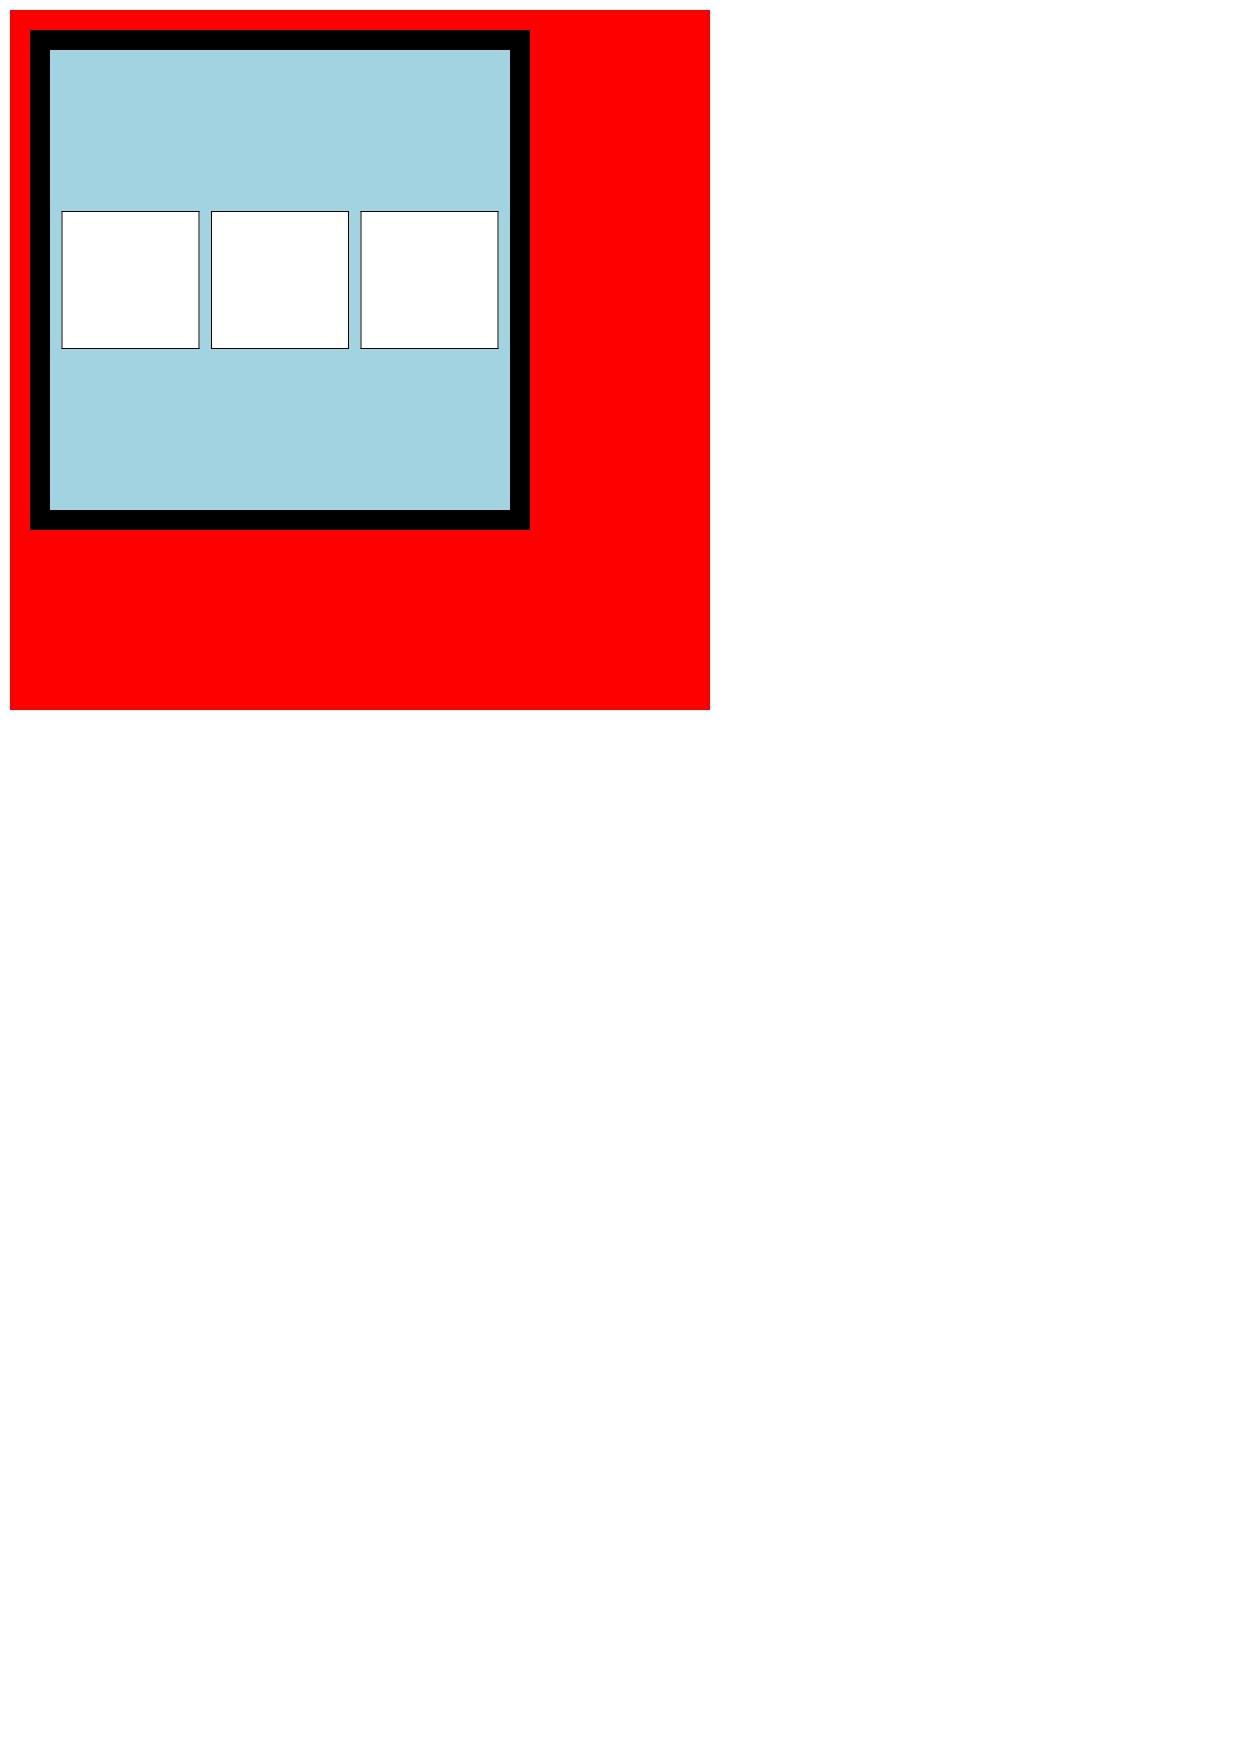
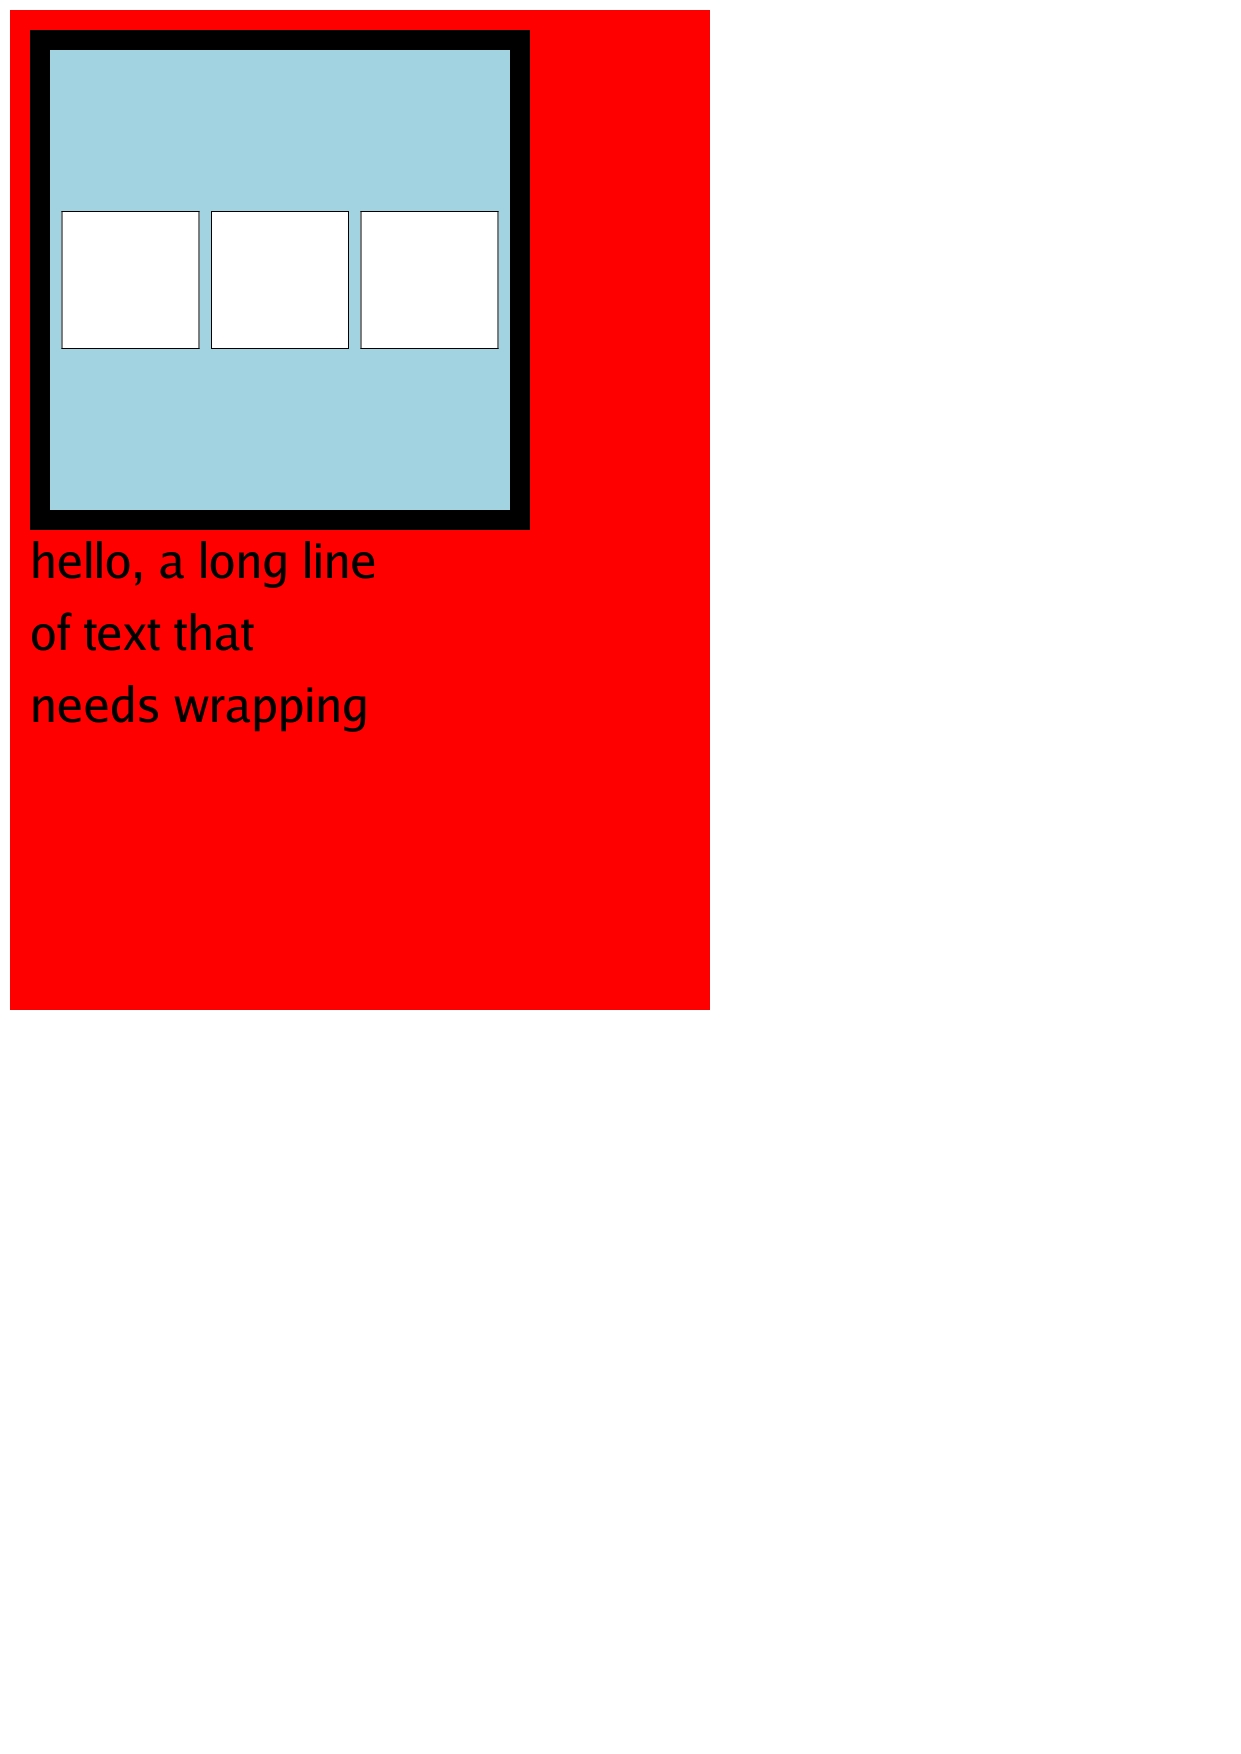
text elements

Changed region(s): [[0.0, 0.3079, 0.5818, 0.5849]]

diff --git a/pkg/drawing/container.go b/pkg/drawing/container.go
@@ -7,24 +7,24 @@ import (
 type Layout int
 
 const (
-	ROW Layout = iota
-	COLUMN
+	Row Layout = iota
+	Column
 )
 
 type Justification int
 
 const (
-	START Justification = iota
-	END
-	SPACED
+	Start Justification = iota
+	End
+	Spaced
 )
 
 type Alignment int
 
 const (
-	ALIGN_START Alignment = iota
-	ALIGN_END
-	ALIGN_CENTER
+	AlignStart Alignment = iota
+	AlignEnd
+	AlignCenter
 )
 
 type Container struct {
@@ -37,7 +37,7 @@ type Container struct {
 }
 
 func newContainer(width, height float64) *Container {
-	return &Container{Div: newDiv(width, height), layout: ROW, justifyContent: START, padding: 0.0}
+	return &Container{Div: newDiv(width, height), layout: Row, justifyContent: Start, padding: 0.0}
 }
 
 func (container *Container) GetWidth() float64 {
@@ -63,20 +63,20 @@ func (container *Container) renderChildren(location Rectangle, context *gg.Conte
 	wGap := 0.0
 	hGap := 0.0
 
-	if container.justifyContent == END {
-		if container.layout == ROW {
+	if container.justifyContent == End {
+		if container.layout == Row {
 			totalWidth := container.getTotalChildWidth(location)
 			w = location.width - totalWidth
-		} else if container.layout == COLUMN {
+		} else if container.layout == Column {
 			totalHeight := container.getTotalChildHeight(location)
 			h = location.height - totalHeight
 		}
-	} else if container.justifyContent == SPACED {
-		if container.layout == ROW {
+	} else if container.justifyContent == Spaced {
+		if container.layout == Row {
 			totalWidth := container.getTotalChildWidth(location)
 			wGap = (location.width - totalWidth) / float64(len(container.children)+1)
 			w = wGap
-		} else if container.layout == COLUMN {
+		} else if container.layout == Column {
 			totalHeight := container.getTotalChildHeight(location)
 			hGap = (location.height - totalHeight) / float64(len(container.children)+1)
 			h = hGap
@@ -87,25 +87,25 @@ func (container *Container) renderChildren(location Rectangle, context *gg.Conte
 		width := getChildWidth(location, child)
 		height := getChildHeight(location, child)
 
-		if container.alignItems == ALIGN_END {
-			if container.layout == ROW {
+		if container.alignItems == AlignEnd {
+			if container.layout == Row {
 				h = location.height - height
-			} else if container.layout == COLUMN {
+			} else if container.layout == Column {
 				w = location.width - width
 			}
-		} else if container.alignItems == ALIGN_CENTER {
-			if container.layout == ROW {
+		} else if container.alignItems == AlignCenter {
+			if container.layout == Row {
 				h = location.height/2 - height/2
-			} else if container.layout == COLUMN {
+			} else if container.layout == Column {
 				w = location.width/2 - width/2
 			}
 		}
 
 		childLocation := Rectangle{left + container.padding + w, top + container.padding + h, width, height}
 		child.Render(childLocation, context)
-		if container.layout == ROW {
+		if container.layout == Row {
 			w += width + wGap
-		} else if container.layout == COLUMN {
+		} else if container.layout == Column {
 			h += height + hGap
 		}
 	}

diff --git a/pkg/drawing/text.go b/pkg/drawing/text.go
@@ -2,16 +2,29 @@ package drawing
 
 import (
 	"github.com/fogleman/gg"
+	"golang.org/x/image/font"
+	"image/color"
 )
+
+var FontMap map[int]font.Face = make(map[int]font.Face)
 
 type Text struct {
 	*Div
 	value string
 	size  int
+	Color color.Color
 }
 
 func newText(value string, size int, width, height float64) *Text {
-	return &Text{value: value, size: size, Div: newDiv(width, height)}
+	_, exists := FontMap[size]
+	if !exists {
+		fontFace, err := gg.LoadFontFace("fonts/luxisr.ttf", float64(size))
+		if err != nil {
+			panic(err)
+		}
+		FontMap[size] = fontFace
+	}
+	return &Text{value: value, size: size, Color: color.Black, Div: newDiv(width, height)}
 }
 
 func (text *Text) GetWidth() float64 {
@@ -23,5 +36,9 @@ func (text *Text) GetHeight() float64 {
 }
 
 func (text *Text) Render(location Rectangle, context *gg.Context) Rectangle {
+	rect := text.Div.Render(location, context)
+	context.SetColor(text.Color)
+	context.SetFontFace(FontMap[text.size])
+	context.DrawStringWrapped(text.value, rect.left, rect.top, 0, 0, rect.width, 1.5, gg.AlignLeft)
 	return location
 }

diff --git a/pkg/drawing/div.go b/pkg/drawing/div.go
@@ -13,7 +13,7 @@ type Div struct {
 }
 
 func newDiv(width, height float64) *Div {
-	return &Div{width: width, height: height, backgroundColor: color.White, borderColor: color.White}
+	return &Div{width: width, height: height, backgroundColor: nil, borderColor: nil, borderWeight: 0.0}
 }
 
 func (div *Div) GetWidth() float64 {
@@ -31,11 +31,13 @@ func (div *Div) Render(location Rectangle, context *gg.Context) Rectangle {
 	h := location.height
 	b := div.borderWeight
 
-	context.DrawRectangle(l, t, w, h)
-	context.SetColor(color.White)
-	context.FillPreserve()
-	context.SetColor(div.backgroundColor)
-	context.Fill()
+	if div.backgroundColor != nil {
+		context.DrawRectangle(l, t, w, h)
+		context.SetColor(color.White)
+		context.FillPreserve()
+		context.SetColor(div.backgroundColor)
+		context.Fill()
+	}
 
 	//draw border
 	if div.borderWeight > 0 {

diff --git a/pkg/drawing/draw.go b/pkg/drawing/draw.go
@@ -17,23 +17,26 @@ func Draw() {
 	context.SetColor(WHITE)
 	context.Clear()
 
-	outer := newContainer(700, 700)
+	outer := newContainer(700, 1000)
 	outer.padding = 20
+	outer.layout = Column
 	outer.backgroundColor = RED
 	outer.borderColor = BLACK
-	outer.justifyContent = START
+	outer.justifyContent = Start
 
 	middle := newContainer(500, 500)
-	middle.layout = ROW
+	middle.layout = Row
 	middle.backgroundColor = CYAN
 	middle.borderColor = BLACK
 	middle.borderWeight = 20
-	middle.justifyContent = SPACED
-	middle.alignItems = ALIGN_CENTER
+	middle.justifyContent = Spaced
+	middle.alignItems = AlignCenter
 
 	createChildren(3, middle)
 
-	outer.children = []Displayable{middle}
+	bottom := newText("hello, a long line of text that needs wrapping", 48, 0.5, 100)
+
+	outer.children = []Displayable{middle, bottom}
 
 	Display(outer, 10, 10, context)
 
